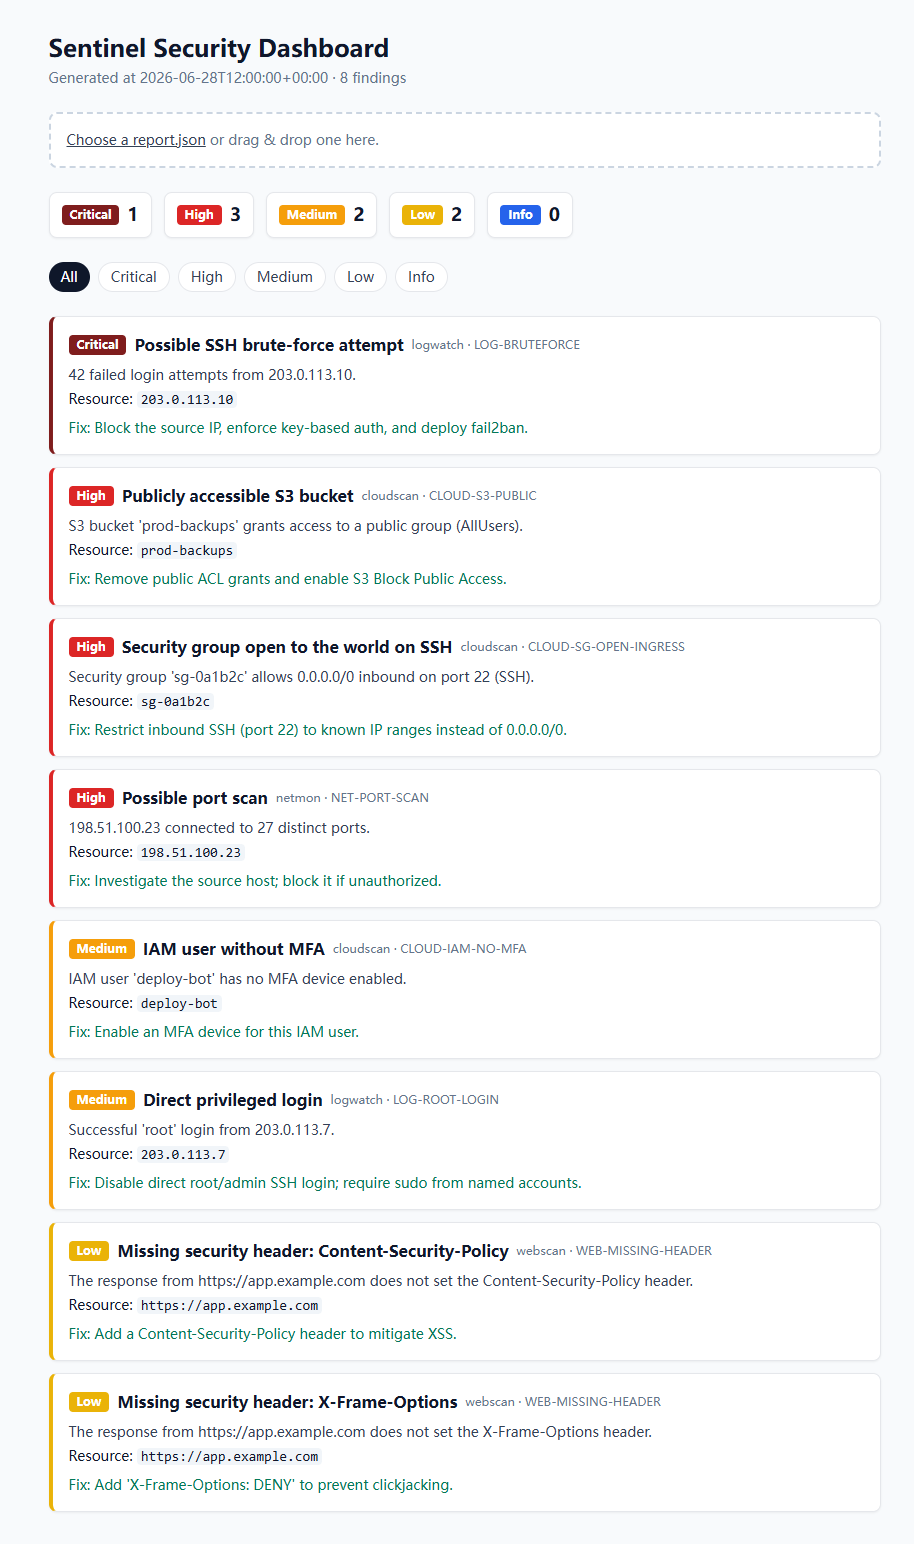
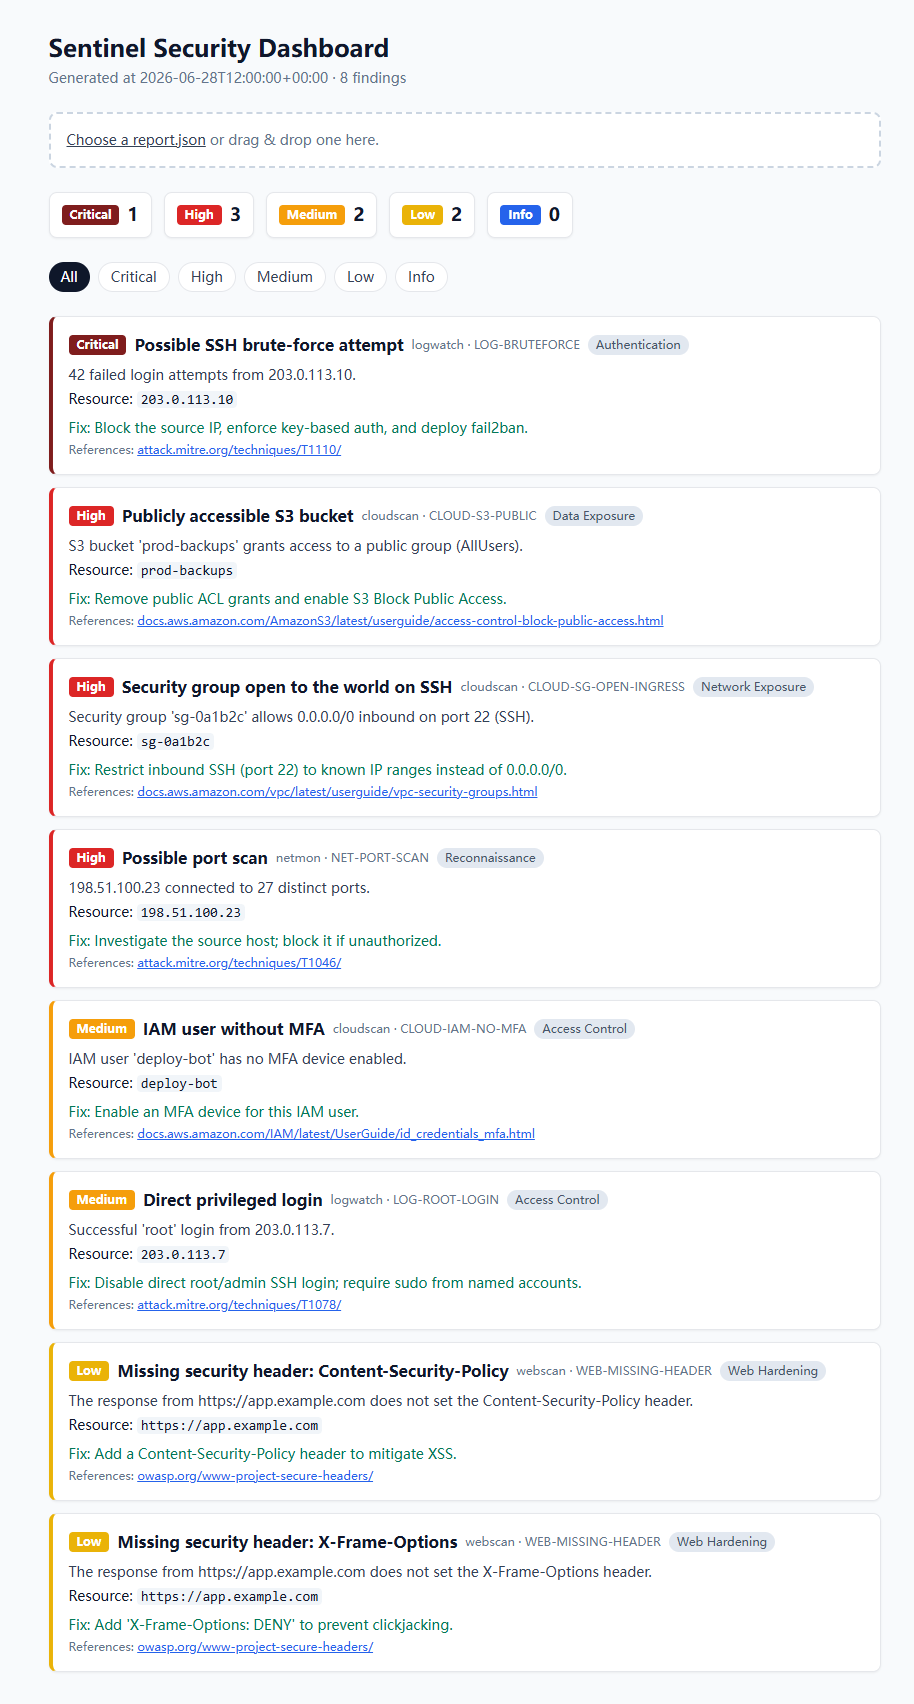
feat(ui): surface category + references in HTML report and dashboard

diff --git a/dashboard/components/FindingCard.tsx b/dashboard/components/FindingCard.tsx
@@ -20,6 +20,11 @@ export default function FindingCard({ finding }: { finding: Finding }) {
         <span className="text-xs text-slate-500">
           {finding.module} · {finding.id}
         </span>
+        {finding.category && (
+          <span className="rounded-full bg-slate-200 px-2 py-0.5 text-xs text-slate-600">
+            {finding.category}
+          </span>
+        )}
       </div>
       <p className="mt-2 text-sm text-slate-700">{finding.description}</p>
       {finding.resource && (
@@ -29,6 +34,19 @@ export default function FindingCard({ finding }: { finding: Finding }) {
         </p>
       )}
       <p className="mt-2 text-sm text-emerald-700">Fix: {finding.remediation}</p>
+      {finding.references && finding.references.length > 0 && (
+        <p className="mt-1 text-xs text-slate-500">
+          References:{" "}
+          {finding.references.map((ref, i) => (
+            <span key={ref}>
+              {i > 0 && ", "}
+              <a href={ref} className="text-blue-600 underline" target="_blank" rel="noreferrer">
+                {ref.replace(/^https?:\/\//, "")}
+              </a>
+            </span>
+          ))}
+        </p>
+      )}
     </div>
   );
 }

diff --git a/dashboard/lib/types.ts b/dashboard/lib/types.ts
@@ -7,6 +7,8 @@ export interface Finding {
   title: string;
   description: string;
   remediation: string;
+  category?: string | null;
+  references?: string[];
   evidence: Record<string, unknown>;
   resource: string | null;
   timestamp: string;

diff --git a/tests/test_report.py b/tests/test_report.py
@@ -35,6 +35,19 @@ def test_write_html_contains_summary_and_titles(sample_findings, tmp_path):
     assert "Set the bucket ACL to private." in html
 
 
+def test_write_html_shows_category_and_references(tmp_path):
+    from sentinel.core.finding import Finding, Severity
+
+    f = Finding(
+        id="X", module="m", severity=Severity.HIGH, title="t",
+        description="d", remediation="r",
+        category="Data Exposure", references=["https://example.test/ref"],
+    )
+    html = write_html([f], tmp_path).read_text(encoding="utf-8")
+    assert "Data Exposure" in html
+    assert "https://example.test/ref" in html
+
+
 def test_write_json_empty_findings(tmp_path):
     path = write_json([], tmp_path)
     payload = json.loads(path.read_text(encoding="utf-8"))